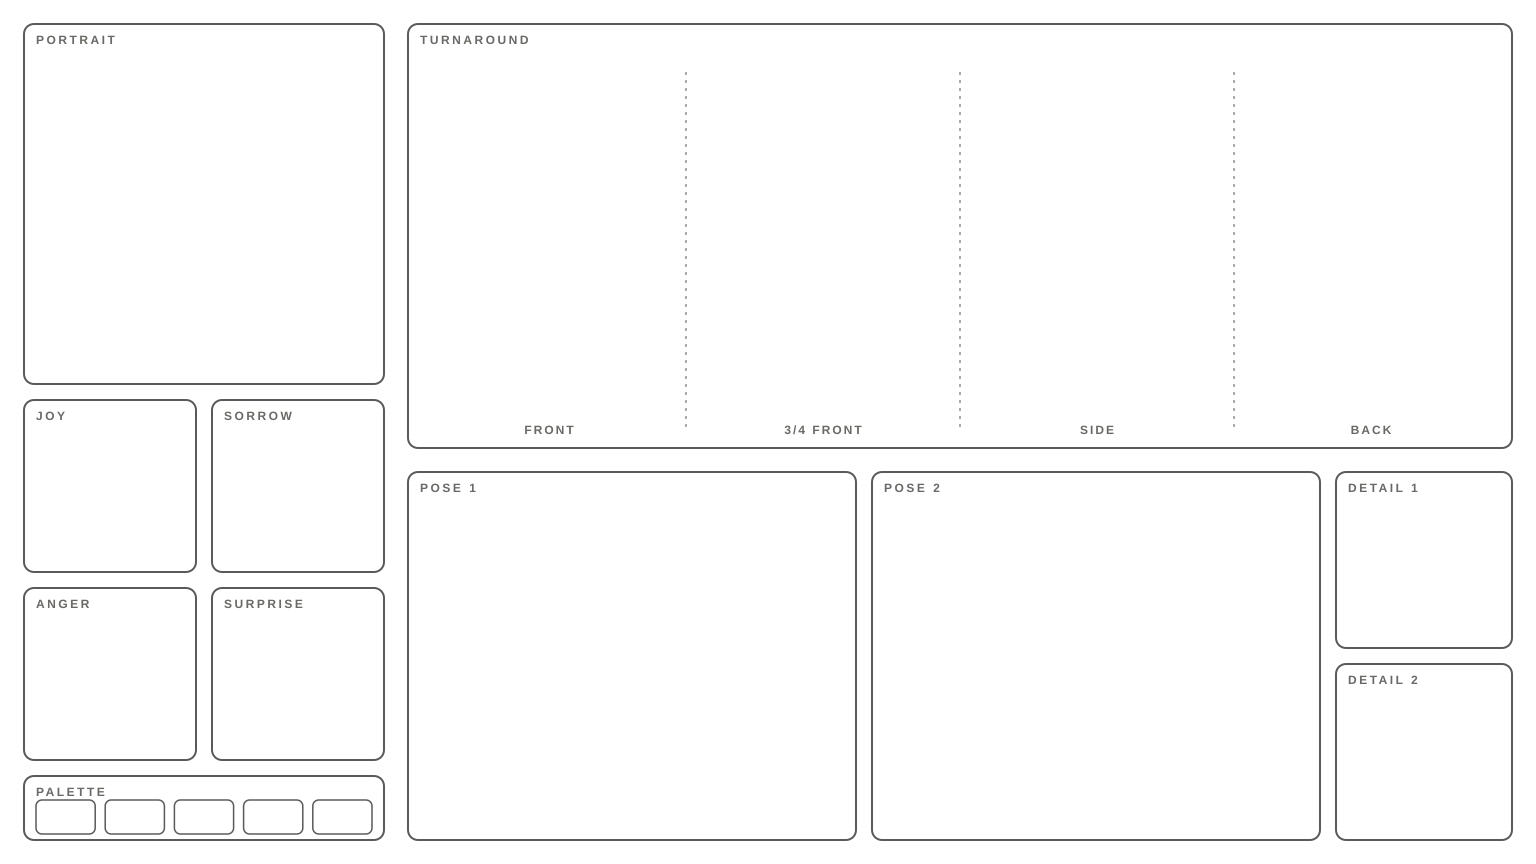
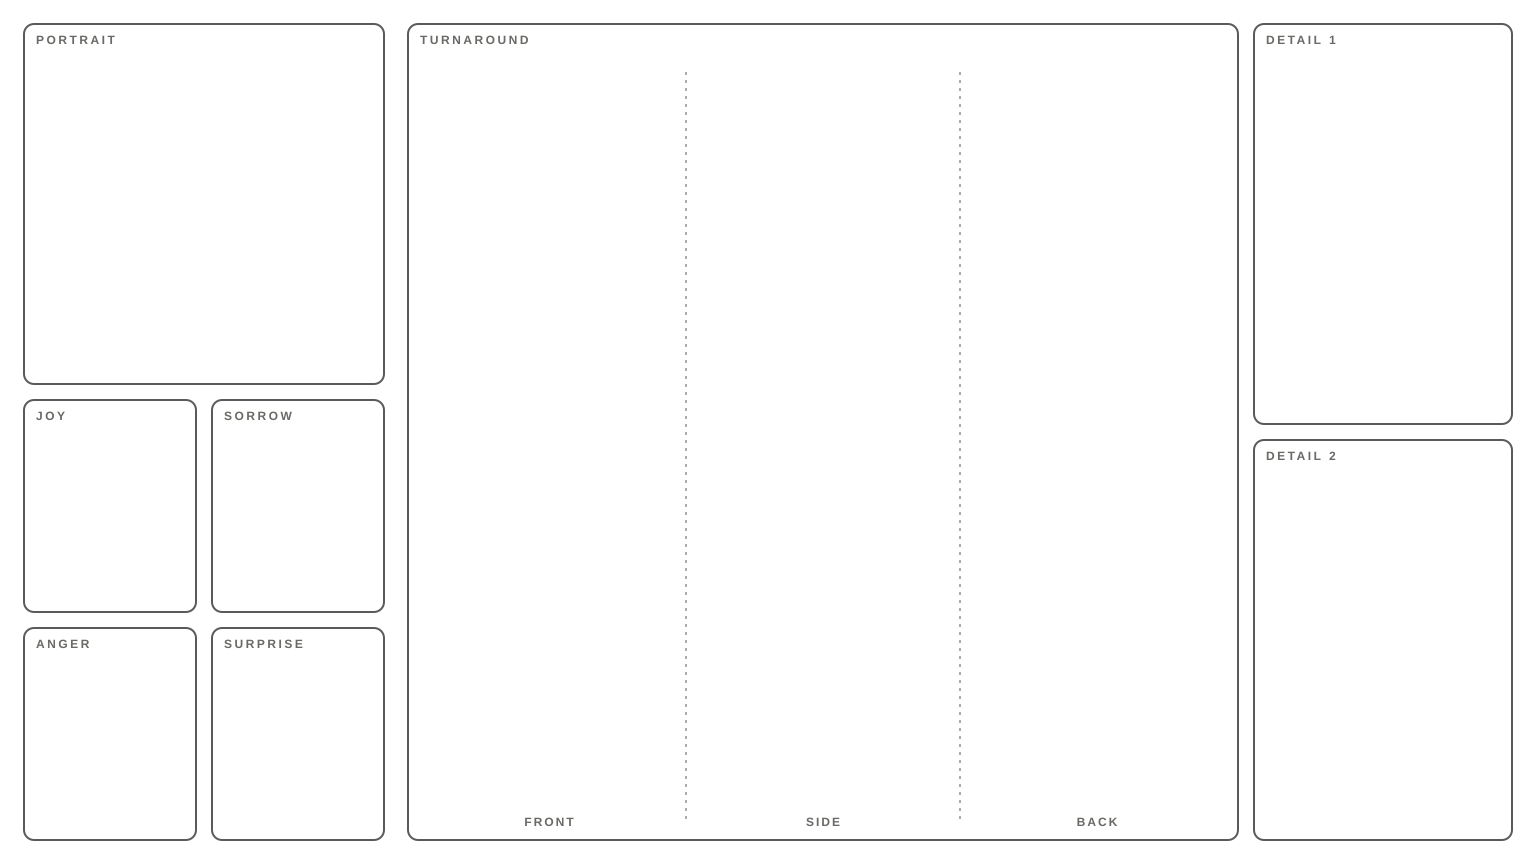
feat(artist): 캐릭터 시트 양식 v4 — 색 팔레트 · 포즈 1 · 포즈 2 · 3/4 정면 칸을 지우고 남은 칸을 다시 배치 (오너 2026-10-27)
- 그림 크기(1536×864)와 대표 얼굴 칸 자리는 그대로(대표 얼굴 자르기 좌표 유지 — 배포 순간 그리던 v3 시트도 바르게 잘림).
- 표정 2×2 는 팔레트 자리까지 세로로(172×212), 턴어라운드는 정면 · 옆 · 뒤 3칸을 전체 높이로(전신 258×764, v3 의 두 배쯤),
  디테일 2칸은 오른쪽 열(258×400).
- 시트 지시문: 팔레트 · 포즈 줄 삭제, 턴어라운드 세 방향. 예전 양식 시트를 참고로 붙이면(다시 만들기 · 시리즈) 칸 배치는 양식만 따르라고 한다.
- 바꾼 테스트(오너 지시): 양식 시험 이름 v3 → v4, 시트 지시문 시험의 'PALETTE strip' 확인 → 'EXPRESSION tiles',
  상한 시험의 긴 설명 14 → 18문장(지시문이 짧아져 14문장은 상한 안에 든다).

diff --git a/src/lib/artist/sheet-template.ts b/src/lib/artist/sheet-template.ts
@@ -1,18 +1,15 @@
-// 캐릭터 시트 템플릿 v3 스펙 (#f8 2026-08-27 오너 지시 — 반복·바이어스 제거, 정형 타일).
+// 캐릭터 시트 템플릿 v4 스펙 (2026-10-27 오너 — 색 팔레트 · 포즈 1 · 포즈 2 · 3/4 정면 칸을 지우고 남은 칸을 다시 배치).
 //
-// v2 의 문제(오너 실측): ① 서 있는 전신 라인업이 3번 반복(TURN AROUND 5뷰 + SKETCH STYLE
-//   4체형 + SIZE GUIDE 입상) ② SIZE GUIDE(키 cm 눈금)는 파이프라인에서 무의미 ③ 빈 DETAIL
-//   NOTES 텍스트 칸은 모델이 가짜 글자로 채우는 바이어스 ④ 회색 마네킹은 포즈 자리표시로
-//   넣었지만 스타일 계승 바이어스의 원천이라 프롬프트가 따로 싸워야 했다.
-// v3: 업계 컨셉 시트 문법의 핵심만 정형 타일로 — 대표 포트레이트 / 표정 4(기쁨·슬픔·분노·
-//   놀람) / 팔레트 5칸 / 턴어라운드 4뷰(front·¾front·side·back — ¾back 제거) / 개성 포즈 2 /
-//   디테일 클로즈업 2. 마네킹·긴 제목·빈 노트 칸 없음(최소 라벨만) — 포즈·내용 지시는 프롬프트가
-//   전담한다(src/lib/artist/turnaround.ts 의 v3 절과 한 쌍).
+// v4: 대표 포트레이트(v3 와 같은 자리) / 표정 4(기쁨·슬픔·분노·놀람, 팔레트 자리까지 세로로 키움) / 턴어라운드 3뷰
+//   (front·side·back — 전체 높이, 전신이 v3 의 두 배쯤) / 디테일 클로즈업 2(오른쪽 열). 최소 라벨만 — 칸별 내용 지시는
+//   프롬프트가 전담한다(src/lib/artist/turnaround.ts 의 시트 절과 한 쌍).
+// v3(#f8 2026-08-27): v2 의 반복 · 바이어스(전신 라인업 3번 · SIZE GUIDE · 빈 노트 칸 · 회색 마네킹)를 걷어 낸 정형 타일 —
+//   여기에 팔레트 5칸 · 턴어라운드 4뷰(¾front 포함) · 개성 포즈 2 가 더 있었다.
 //
-// 이 스펙이 좌표의 단일 진실이다: 템플릿 PNG 생성기(tests/character-template-assets.test.ts)와
+// 이 스펙이 좌표의 단일 진실이다: 템플릿 PNG 생성기(tests/artist/character-template-assets.test.ts)와
 //   포트레이트 크롭(src/lib/artist/portrait.ts)이 전부 여기서 파생된다 — 레이아웃을 바꾸면
 //   generator 재실행 + 그 테스트가 PNG 치수 드리프트를 CI 에서 잡는다.
-//   ⚠ v2 시트(기존 생성분)와 좌표가 다르다 — v2 시트에 v3 크롭을 돌리면 엉뚱한 부분이 잘린다.
+//   ⚠ v2 시트(기존 생성분)와 좌표가 다르다 — v2 시트에 v3 · v4 크롭을 돌리면 엉뚱한 부분이 잘린다(v3 · v4 포트레이트는 같은 자리).
 
 export interface SheetBox {
   x: number
@@ -28,31 +25,44 @@ const H = 864
 const M = 24 // 바깥 여백
 const G = 16 // 타일 사이 거터
 
-// ── 좌측 컬럼(360px): 포트레이트 + 표정 2×2 + 팔레트 ──
+// ── 좌측 컬럼(360px): 포트레이트 + 표정 2×2 ──
 const COL_A_W = 360
+// 포트레이트는 v3 와 같은 자리 · 크기 — 대표 얼굴 크롭 좌표가 그대로라 배포 순간 그리던 v3 시트도 바르게 잘린다.
 const PORTRAIT: SheetBox = { x: M, y: M, w: COL_A_W, h: 360, label: 'PORTRAIT' }
-const EXPR_TILE = (COL_A_W - G) / 2 // 172
+const EXPR_TILE_W = (COL_A_W - G) / 2 // 172
+const EXPR_Y = PORTRAIT.y + PORTRAIT.h + G // 400
+// 팔레트가 빠진 자리까지 표정 2×2 가 세로로 나눠 가진다: (아래 여백까지 높이 − 거터) / 2.
+const EXPR_TILE_H = (H - M - EXPR_Y - G) / 2 // 212
 const EXPRESSION_LABELS = ['JOY', 'SORROW', 'ANGER', 'SURPRISE'] as const
 const EXPRESSIONS: SheetBox[] = EXPRESSION_LABELS.map((label, i) => ({
-  x: M + (i % 2) * (EXPR_TILE + G),
-  y: 400 + Math.floor(i / 2) * (EXPR_TILE + G),
-  w: EXPR_TILE,
-  h: EXPR_TILE,
+  x: M + (i % 2) * (EXPR_TILE_W + G),
+  y: EXPR_Y + Math.floor(i / 2) * (EXPR_TILE_H + G),
+  w: EXPR_TILE_W,
+  h: EXPR_TILE_H,
   label,
 }))
-const PALETTE: SheetBox = { x: M, y: 776, w: COL_A_W, h: H - 776 - M, label: 'PALETTE' } // h=64
-export const PALETTE_SWATCHES = 5
 
-// ── 우측 영역(x 408..1512 = 1104px): 턴어라운드(상) + 포즈·디테일(하) ──
+// ── 우측 영역(x 408..1512 = 1104px): 턴어라운드(전체 높이) + 디테일 2(오른쪽 열) ──
 const R_X = M + COL_A_W + M // 408
 const R_W = W - R_X - M // 1104
-const TURNAROUND: SheetBox = { x: R_X, y: M, w: R_W, h: 424, label: 'TURNAROUND' }
-export const TURNAROUND_VIEW_LABELS = ['FRONT', '3/4 FRONT', 'SIDE', 'BACK'] as const
-/** 턴어라운드 내부 뷰 슬롯(라벨 밴드 아래) — 4등분, 슬롯 사이 얇은 구분선용 좌표. */
+const FULL_H = H - 2 * M // 816
+export const TURNAROUND_VIEW_LABELS = ['FRONT', 'SIDE', 'BACK'] as const
+const SLOT_PAD = 12 // 턴어라운드 안쪽 좌우 여백
+// 뷰 슬롯 폭과 디테일 열 폭을 같게(258) — 턴어라운드 폭 = 슬롯 3 + 거터 2 + 안쪽 여백 2.
+const SLOT_W = (R_W - G - 2 * SLOT_PAD - (TURNAROUND_VIEW_LABELS.length - 1) * G) / (TURNAROUND_VIEW_LABELS.length + 1) // 258
+const TURNAROUND: SheetBox = {
+  x: R_X,
+  y: M,
+  w: TURNAROUND_VIEW_LABELS.length * SLOT_W + (TURNAROUND_VIEW_LABELS.length - 1) * G + 2 * SLOT_PAD, // 830
+  h: FULL_H,
+  label: 'TURNAROUND',
+}
+/** 턴어라운드 내부 뷰 슬롯(라벨 밴드 아래) — 뷰 수만큼 균등 분할, 슬롯 사이 얇은 구분선용 좌표. */
 export function turnaroundSlots(): SheetBox[] {
-  const innerX = TURNAROUND.x + 12
-  const innerW = TURNAROUND.w - 24
-  const slotW = (innerW - 3 * G) / 4
+  const innerX = TURNAROUND.x + SLOT_PAD
+  const innerW = TURNAROUND.w - 2 * SLOT_PAD
+  const n = TURNAROUND_VIEW_LABELS.length
+  const slotW = (innerW - (n - 1) * G) / n
   return TURNAROUND_VIEW_LABELS.map((label, i) => ({
     x: innerX + i * (slotW + G),
     y: TURNAROUND.y + 40,
@@ -62,23 +72,14 @@ export function turnaroundSlots(): SheetBox[] {
   }))
 }
 
-const ROW2_Y = TURNAROUND.y + TURNAROUND.h + M // 472
-const ROW2_H = H - ROW2_Y - M // 368
-const DETAIL_W = 176
-// 포즈 2칸이 남는 폭을 균등하게 가져간다: R_W - 디테일 - 거터 2개를 2등분.
-const POSE_W = (R_W - DETAIL_W - 2 * G) / 2 // 448
-const POSES: SheetBox[] = [0, 1].map((i) => ({
-  x: R_X + i * (POSE_W + G),
-  y: ROW2_Y,
-  w: POSE_W,
-  h: ROW2_H,
-  label: `POSE ${i + 1}`,
-}))
+const DETAIL_X = TURNAROUND.x + TURNAROUND.w + G // 1254
+const DETAIL_W = W - M - DETAIL_X // 258
+const DETAIL_H = (FULL_H - G) / 2 // 400
 const DETAILS: SheetBox[] = [0, 1].map((i) => ({
-  x: R_X + 2 * (POSE_W + G),
-  y: ROW2_Y + i * ((ROW2_H - G) / 2 + G),
+  x: DETAIL_X,
+  y: M + i * (DETAIL_H + G),
   w: DETAIL_W,
-  h: (ROW2_H - G) / 2, // 176
+  h: DETAIL_H,
   label: `DETAIL ${i + 1}`,
 }))
 
@@ -86,9 +87,7 @@ export const CHARACTER_SHEET_SPEC = {
   canvas: { width: W, height: H },
   portrait: PORTRAIT,
   expressions: EXPRESSIONS,
-  palette: PALETTE,
   turnaround: TURNAROUND,
-  poses: POSES,
   details: DETAILS,
 } as const
 

diff --git a/tests/artist/character-template-assets.test.ts b/tests/artist/character-template-assets.test.ts
@@ -6,17 +6,16 @@ import path from 'node:path'
 import sharp from 'sharp'
 import {
   CHARACTER_SHEET_SPEC,
-  PALETTE_SWATCHES,
   portraitRegionOfSpec,
   turnaroundSlots,
   type SheetBox,
 } from '@/lib/artist/sheet-template'
 import { TURNAROUND_PORTRAIT_REGION } from '@/lib/artist/portrait'
 
-// 캐릭터 시트 템플릿 v3 (#f8 2026-08-27) — 스펙(sheet-template.ts)에서 그리는 생성기(env 게이트)
-//   + 커밋된 PNG 가 스펙과 어긋나면 잡는 드리프트 가드. rough-template-assets 와 같은 관행.
+// 캐릭터 시트 템플릿 v4 (2026-10-27 오너 — 팔레트 · 포즈 · 3/4 정면 칸 없음, v3 #f8 2026-08-27) — 스펙(sheet-template.ts)에서
+//   그리는 생성기(env 게이트) + 커밋된 PNG 가 스펙과 어긋나면 잡는 드리프트 가드. rough-template-assets 와 같은 관행.
 //
-//   재생성: GENERATE_CHARACTER_TEMPLATE=1 pnpm vitest run tests/character-template-assets.test.ts
+//   재생성: GENERATE_CHARACTER_TEMPLATE=1 pnpm vitest run tests/artist/character-template-assets.test.ts
 
 const PUB = path.join(process.cwd(), 'public')
 const TEMPLATE_PATH = path.join(PUB, 'character-template.png')
@@ -43,24 +42,10 @@ function boxSvg(b: SheetBox): string {
 }
 
 async function renderTemplate(): Promise<Buffer> {
-  const { canvas, portrait, expressions, palette, turnaround, poses, details } =
-    CHARACTER_SHEET_SPEC
+  const { canvas, portrait, expressions, turnaround, details } = CHARACTER_SHEET_SPEC
   const svgParts: string[] = []
-  for (const b of [portrait, ...expressions, palette, turnaround, ...poses, ...details]) {
+  for (const b of [portrait, ...expressions, turnaround, ...details]) {
     svgParts.push(boxSvg(b))
-  }
-  // 팔레트 스와치 5칸 — 스트립 내부 균등 배치.
-  {
-    const inner = 12
-    const availW = palette.w - inner * 2
-    const gap = 10
-    const sw = (availW - gap * (PALETTE_SWATCHES - 1)) / PALETTE_SWATCHES
-    const sh = palette.h - 30
-    for (let i = 0; i < PALETTE_SWATCHES; i++) {
-      svgParts.push(
-        `<rect x="${palette.x + inner + i * (sw + gap)}" y="${palette.y + 24}" width="${sw}" height="${sh}" rx="6" fill="none" stroke="${BORDER}" stroke-width="1.5"/>`,
-      )
-    }
   }
   // 턴어라운드 뷰 슬롯 — 구분선 + 하단 뷰 라벨(내용 앵커).
   for (const [i, slot] of turnaroundSlots().entries()) {
@@ -78,9 +63,9 @@ async function renderTemplate(): Promise<Buffer> {
   return sharp(base).composite([{ input: Buffer.from(svg), left: 0, top: 0 }]).png().toBuffer()
 }
 
-describe('캐릭터 양식 v3 그림이 정해진 모습과 맞는다 (#f8)', () => {
+describe('캐릭터 양식 v4 그림이 정해진 모습과 맞는다 (#f8 · 2026-10-27)', () => {
   it.runIf(process.env.GENERATE_CHARACTER_TEMPLATE === '1')(
-    '필요한 설정을 켜면 v3 캐릭터 양식을 만들어 보관한다',
+    '필요한 설정을 켜면 v4 캐릭터 양식을 만들어 보관한다',
     async () => {
       await writeFile(TEMPLATE_PATH, await renderTemplate())
     },
@@ -94,13 +79,13 @@ describe('캐릭터 양식 v3 그림이 정해진 모습과 맞는다 (#f8)', ()
       const i = (Math.round(y) * info.width + Math.round(x)) * info.channels
       return [data[i], data[i + 1], data[i + 2]]
     }
-    const { portrait, turnaround, poses } = CHARACTER_SHEET_SPEC
+    const { portrait, turnaround, details } = CHARACTER_SHEET_SPEC
     const samples: Array<[number, number]> = [
       [4, 4],
       [info.width - 5, info.height - 5],
       [portrait.x + portrait.w / 2, portrait.y + portrait.h / 2],
       [turnaround.x + 60, turnaround.y + 200],
-      [poses[0].x + poses[0].w / 2, poses[0].y + poses[0].h / 2],
+      [details[0].x + details[0].w / 2, details[0].y + details[0].h / 2],
     ]
     for (const [x, y] of samples) expect(at(x, y), `${x},${y}`).toEqual([255, 255, 255])
   })
@@ -115,9 +100,8 @@ describe('캐릭터 양식 v3 그림이 정해진 모습과 맞는다 (#f8)', ()
   })
 
   it('모든 칸이 전체 그림 안에 들어오고 서로 겹치지 않는다', () => {
-    const { canvas, portrait, expressions, palette, turnaround, poses, details } =
-      CHARACTER_SHEET_SPEC
-    const boxes: SheetBox[] = [portrait, ...expressions, palette, turnaround, ...poses, ...details]
+    const { canvas, portrait, expressions, turnaround, details } = CHARACTER_SHEET_SPEC
+    const boxes: SheetBox[] = [portrait, ...expressions, turnaround, ...details]
     for (const b of boxes) {
       expect(b.x).toBeGreaterThanOrEqual(0)
       expect(b.y).toBeGreaterThanOrEqual(0)
@@ -135,7 +119,7 @@ describe('캐릭터 양식 v3 그림이 정해진 모습과 맞는다 (#f8)', ()
     }
   })
 
-  it('대표 얼굴 영역이 정해진 위치와 맞는다 (v3, v2 양식에는 쓰지 말 것)', () => {
+  it('대표 얼굴 영역이 정해진 위치와 맞는다 (v3 · v4 같은 자리, v2 양식에는 쓰지 말 것)', () => {
     expect(TURNAROUND_PORTRAIT_REGION).toEqual(portraitRegionOfSpec())
   })
 })

diff --git a/tests/artist/sheet-layout.test.ts b/tests/artist/sheet-layout.test.ts
@@ -1,0 +1,78 @@
+// 캐릭터 양식 v4 — 색 팔레트 · 포즈 1 · 포즈 2 · 3/4 정면 칸을 빼고 남은 칸을 다시 배치한다 (2026-10-27 오너)
+import { describe, expect, it } from 'vitest'
+import { CHARACTER_SHEET_SPEC, TURNAROUND_VIEW_LABELS, turnaroundSlots, type SheetBox } from '@/lib/artist/sheet-template'
+import { buildCharacterTurnaroundPrompt } from '@/lib/artist/turnaround'
+
+const PERSON = {
+  name: 'Mara',
+  role: 'protagonist',
+  appearance: 'A woman in her mid-thirties with sharp, observant eyes and wind-tangled brown hair.',
+  costumes: ['practical dark coat'],
+}
+
+function allBoxes(): SheetBox[] {
+  const spec = CHARACTER_SHEET_SPEC as unknown as Record<string, SheetBox | SheetBox[] | { width: number; height: number }>
+  return Object.entries(spec)
+    .filter(([key]) => key !== 'canvas')
+    .flatMap(([, value]) => (Array.isArray(value) ? value : [value as SheetBox]))
+}
+
+describe('캐릭터 양식 v4', () => {
+  it('캐릭터 양식에는 색 팔레트 · 포즈 1 · 포즈 2 · 3/4 정면 칸이 없다', () => {
+    // 왜: 2026-10-27 오너 — 시트 양식에서 네 칸을 지운다.
+    const labels = [...allBoxes().map((b) => b.label), ...turnaroundSlots().map((s) => s.label)]
+    for (const removed of ['PALETTE', 'POSE 1', 'POSE 2', '3/4 FRONT']) expect(labels, removed).not.toContain(removed)
+    expect([...TURNAROUND_VIEW_LABELS]).toEqual(['FRONT', 'SIDE', 'BACK'])
+  })
+
+  it('남은 칸은 대표 얼굴 · 표정 넷 · 정면 · 옆 · 뒤 · 디테일 둘이다', () => {
+    // 왜: 오너가 남기라고 한 칸이 빠지지 않게 고정한다.
+    const labels = allBoxes().map((b) => b.label).sort()
+    expect(labels).toEqual(['ANGER', 'DETAIL 1', 'DETAIL 2', 'JOY', 'PORTRAIT', 'SORROW', 'SURPRISE', 'TURNAROUND'].sort())
+    expect(turnaroundSlots().map((s) => s.label)).toEqual(['FRONT', 'SIDE', 'BACK'])
+  })
+
+  it('남은 칸이 그림을 빈자리 없이 채운다', () => {
+    // 왜: 칸을 빼고 자리를 그대로 두면 큰 빈자리가 생긴다 — 남은 칸이 그 자리를 나눠 가져야 자연스럽다(오너 "배치 및 크기도 그에 맞춰줘").
+    const { width: W, height: H } = CHARACTER_SHEET_SPEC.canvas
+    const boxes = allBoxes()
+    const margin = Math.min(...boxes.map((b) => b.x))
+    expect(Math.min(...boxes.map((b) => b.y))).toBe(margin)
+    expect(Math.max(...boxes.map((b) => b.x + b.w))).toBe(W - margin)
+    expect(Math.max(...boxes.map((b) => b.y + b.h))).toBe(H - margin)
+    const inner = (W - 2 * margin) * (H - 2 * margin)
+    const used = boxes.reduce((sum, b) => sum + b.w * b.h, 0)
+    expect(used / inner).toBeGreaterThan(0.9)
+  })
+
+  it('대표 얼굴 칸은 예전 양식과 같은 자리에 있다', () => {
+    // 왜: 대표 얼굴은 시트에서 좌표로 잘라 낸다 — 자리가 같으면 배포 순간 그리던 예전 양식 시트도 바르게 잘린다.
+    expect(CHARACTER_SHEET_SPEC.portrait).toEqual({ x: 24, y: 24, w: 360, h: 360, label: 'PORTRAIT' })
+  })
+
+  it('턴어라운드 정면 · 옆 · 뒤 칸은 예전보다 세로로 두 배쯤 크다', () => {
+    // 왜: 3/4 정면과 포즈 두 칸이 빠진 자리를 전신 세 칸이 나눠 가진다 — 전신이 커야 의상 · 비율이 잘 보인다.
+    for (const slot of turnaroundSlots()) {
+      expect(slot.h).toBeGreaterThanOrEqual(2 * 372 - 20)
+      expect(slot.w).toBeGreaterThanOrEqual(240)
+    }
+  })
+
+  it('인물 시트 지시문은 없앤 칸을 그리라고 하지 않고 정면 · 옆 · 뒤 세 방향을 그리라고 한다', () => {
+    // 왜: 양식에 없는 칸을 지시문이 요구하면 모델이 빈자리에 팔레트 · 포즈를 지어 넣는다.
+    const prompt = buildCharacterTurnaroundPrompt(PERSON)
+    for (const removed of ['PALETTE', 'POSE tiles', '3/4 FRONT', 'four full-body']) expect(prompt, removed).not.toContain(removed)
+    expect(prompt).toContain('FRONT, SIDE, BACK')
+    expect(prompt).toContain('DETAIL tiles')
+    expect(prompt).toContain('EXPRESSION tiles')
+  })
+
+  it('예전 시트를 참고로 붙이면 칸 배치는 양식만 따르라고 한다', () => {
+    // 왜: 다시 만들기 · 시리즈는 예전 양식(팔레트 · 포즈 칸이 있는) 시트를 정체성 참고로 붙인다 — 그 칸 배치를 베끼지 않게.
+    for (const opts of [{ hasPriorRender: true }, { hasSeriesSheet: true }, { hasSeriesStyleSample: true }]) {
+      const prompt = buildCharacterTurnaroundPrompt(PERSON, opts)
+      expect(prompt, JSON.stringify(opts)).toContain('take the tile layout ONLY from the template')
+    }
+    expect(buildCharacterTurnaroundPrompt(PERSON)).not.toContain('take the tile layout ONLY from the template')
+  })
+})

diff --git a/src/lib/artist/turnaround.ts b/src/lib/artist/turnaround.ts
@@ -132,7 +132,7 @@ function fitToCap(before: string[], appearance: string, after: string[], cap: nu
   return join('').slice(0, cap)
 }
 
-/** 인물 시트 프롬프트 상한 — 시트 지시문(약 950자)과 참조 절을 빼고도 설명이 들어가게(2026-10-10, 종전 1,500자에서는 설명이 200자도 안 남았다). */
+/** 인물 시트 프롬프트 상한 — 시트 지시문(v4 약 750자)과 참조 절을 빼고도 설명이 들어가게(2026-10-10, 종전 1,500자에서는 설명이 200자도 안 남았다). */
 const SHEET_PROMPT_CAP = 2400
 /** 대표 그림 · 방향 뷰 프롬프트 상한(종전 그대로). */
 const SINGLE_PROMPT_CAP = 900
@@ -158,7 +158,7 @@ export function buildCharacterMainPrompt(input: CharacterPromptInput): string {
 }
 
 /**
- * 턴어라운드 시트 프롬프트 — "한 장에 모든 뷰"(정면·3/4·측면·후면 + 표정·포즈·디테일) v3 모델시트.
+ * 턴어라운드 시트 프롬프트 — "한 장에 모든 뷰"(정면·측면·후면 + 대표 얼굴 · 표정 · 디테일) v4 모델시트(2026-10-27 — 팔레트 · 포즈 · 3/4 정면 칸 없음).
  *   기본 경로는 캐릭터 템플릿(public/character-template.png)을 reference 로 넣은 I2I(edit) — 그 레이아웃에
  *   캐릭터를 채운다. 템플릿 URL 을 못 구하면 같은 프롬프트로 T2I 폴백. 동일 캐릭터/의상/비율을 뷰마다
  *   강하게 고정해 director 단계의 뷰 참조 일관성을 확보(#7). 개별 방향 뷰(i2i) 생성 대체 — 캐릭터당 1장(#9, 2026-07-11).
@@ -236,15 +236,17 @@ export function buildCharacterTurnaroundPrompt(
     ...styleTokens(input),
     ...deltaClause(input),
     ...(input.safeMode ? [SAFE_TOKENS] : []),
-    // 템플릿 v3(#f8 2026-08-27): 마네킹·사이즈 가이드·스케치 열·노트 칸 제거 — 빈 정형 타일 +
-    //   최소 라벨. 칸별 내용은 이 절이 전담한다(시트-프롬프트 한 쌍, sheet-template.ts 참조).
+    // 템플릿 v4(2026-10-27 오너): 팔레트 · 포즈 2 · 3/4 정면 칸을 지운 정형 타일 + 최소 라벨. 칸별 내용은 이 절이
+    //   전담한다(시트-프롬프트 한 쌍, sheet-template.ts 참조). v3(#f8): 마네킹·사이즈 가이드·스케치 열·노트 칸 제거.
     'keep the template EXACTLY as-is — every tile border, divider and small label stays in place; draw only INSIDE the tiles and never add any extra text',
+    // 다시 만들기 · 시리즈는 예전 양식(팔레트 · 포즈 칸이 있는 v3) 시트를 참고로 붙인다 — 그 칸 배치를 베끼지 않게(2026-10-27).
+    ...(opts?.hasPriorRender || opts?.hasSeriesSheet || opts?.hasSeriesStyleSample
+      ? ['other reference sheets may use an older tile layout — take the tile layout ONLY from the template and never copy extra tiles such as color palettes or pose panels from them']
+      : []),
     'PORTRAIT tile: waist-up front portrait of the character, facing camera',
-    'TURNAROUND tile: four full-body views of the same standing character in its labeled slots — FRONT, 3/4 FRONT, SIDE, BACK — same height and same neutral standing pose across all four',
+    'TURNAROUND tile: three full-body views of the same standing character in its labeled slots — FRONT, SIDE, BACK — same height and same neutral standing pose across all three',
     'EXPRESSION tiles (JOY, SORROW, ANGER, SURPRISE): the same face as a close-up with that labeled expression, one per tile',
-    'POSE tiles: two different full-body personality poses that fit this character (a dynamic action and a characteristic idle)',
     'DETAIL tiles: two close-up callouts of signature costume or prop details',
-    'PALETTE strip: fill the five swatches with the character\'s actual key colors, flat color only',
     'identical character design, outfit, colors and proportions across every tile, consistent art style',
     // #B: 옛 "clean line art"(애니 토큰) 삭제 + 애니 디폴트 차단. "declared art style"을 따르라는 조건부
     //   표현이라 아트 스타일 자체가 애니인 프로젝트와는 충돌하지 않는다(디폴트 회귀만 금지).

diff --git a/tests/artist/sheet-prompt-cap.test.ts b/tests/artist/sheet-prompt-cap.test.ts
@@ -19,7 +19,8 @@ const GIRL = {
   characterProportion: '6:1',
   palette: ['#F7FAFC', '#2D3748', '#ED8936'],
 }
-const LONG = Array.from({ length: 14 }, (_, i) => `Detail sentence ${i + 1} describes another visible trait of the character in plain words.`).join(' ')
+// 시트 지시문이 v4(2026-10-27 — 팔레트 · 포즈 칸 없음)로 짧아져 14문장은 상한 안에 든다 — 상한을 넘기려고 18문장.
+const LONG = Array.from({ length: 18 }, (_, i) => `Detail sentence ${i + 1} describes another visible trait of the character in plain words.`).join(' ')
 
 describe('인물 그림 프롬프트 상한', () => {
   it('806e2cc2 소녀처럼 설명이 긴 인물도 시트 지시문이 끝까지 들어간다', () => {
@@ -27,7 +28,7 @@ describe('인물 그림 프롬프트 상한', () => {
     const prompt = buildCharacterTurnaroundPrompt(GIRL)
     expect(prompt.endsWith(LAST_SHEET_LINE)).toBe(true)
     expect(prompt).toContain('DETAIL tiles')
-    expect(prompt).toContain('PALETTE strip')
+    expect(prompt).toContain('EXPRESSION tiles')
     expect(prompt).toContain(S3)
   })
 
@@ -37,7 +38,7 @@ describe('인물 그림 프롬프트 상한', () => {
     expect(prompt.length).toBeLessThanOrEqual(2400)
     expect(prompt.endsWith(LAST_SHEET_LINE)).toBe(true)
     expect(prompt).toContain('Detail sentence 1 ')
-    expect(prompt).not.toContain('Detail sentence 14 ')
+    expect(prompt).not.toContain('Detail sentence 18 ')
     expect(prompt).toContain('wearing 풍성한 퍼프 소매의 흰색 블라우스')
     expect(prompt).toContain('palette: #F7FAFC, #2D3748, #ED8936')
   })
